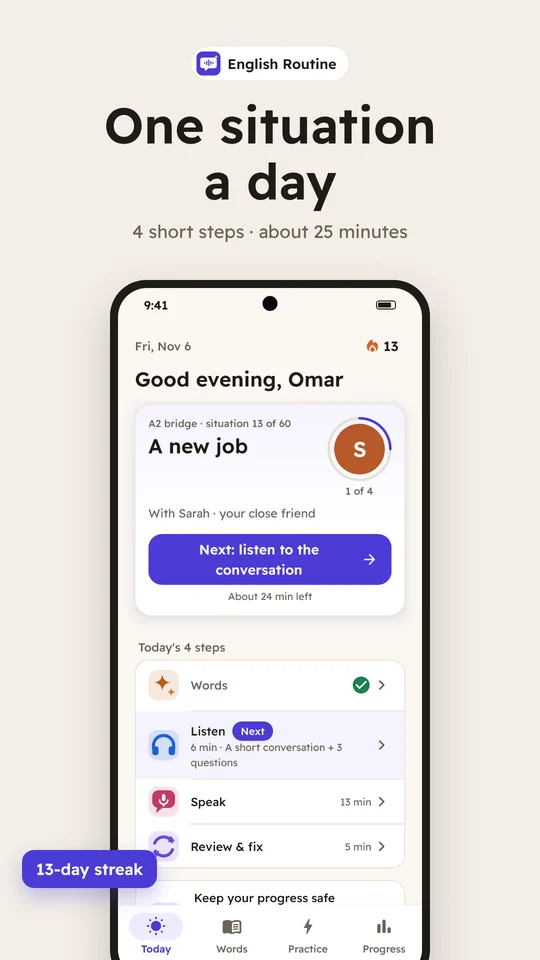
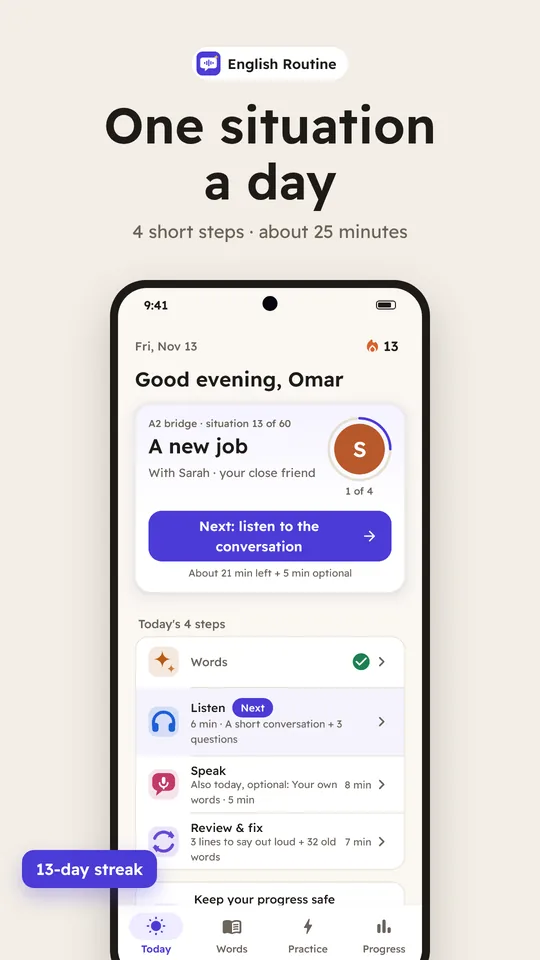
590 situations, 11 help languages, the two new Plus features; screenshots from 7.4.6
Claude-Session: https://claude.ai/code/session_01MRLAn8gfzqwUAjyTHvjyFp

diff --git a/index.html b/index.html
@@ -84,10 +84,10 @@ footer a{color:var(--muted)}
   <div class="fact"><b>25 دقيقة</b><span>في اليوم. موقف واحد، 4 خطوات، وخلاص</span></div>
 </section>
 
-<div class="note">الشرح بالعامية المصرية (أو هندي، إندونيسي، إسباني، برتغالي، تركي). الإنجليزي أمريكي في كل حاجة: practice، apartment، the check.</div>
+<div class="note">الشرح بالعامية المصرية، أو بواحدة من 10 لغات تانية (هندي، إسباني، برتغالي، فرنساوي، روسي، تركي، إندونيسي، كوري، ياباني، فيتنامي)، أو إنجليزي بس. الإنجليزي أمريكي في كل حاجة: practice، apartment، the check.</div>
 
 <section class="plus">
-  <div><b>English Routine Plus</b><p>أي موقف في أي يوم، موقف مخصوص لحاجة جاية (مقابلة، سفر، دكتور)، تقرير النطق، والتمرين وإنت في المواصلات. أول أسبوع ببلاش لكل مستخدم جديد — وخطة اليوم الأربع خطوات بتفضل ببلاش للأبد.</p></div>
+  <div><b>English Routine Plus</b><p>خلّصت موقف النهارده وعايز تكمّل؟ ابدأ اللي بعده في نفس اليوم. وبعد كل تمثيلية نفس الشخص بيسألك أسئلة زيادة بصوته. ومعاهم: أي موقف في أي يوم، موقف مخصوص لحاجة جاية (مقابلة، سفر، دكتور)، تقرير النطق، والتمرين وإنت في المواصلات. أول أسبوع ببلاش لكل مستخدم جديد — وخطة اليوم الأربع خطوات بتفضل ببلاش للأبد.</p></div>
   <a class="cta" style="background:#E6B13A;color:#2A2350" href="https://play.google.com/store/apps/details?id=com.englishroutine.app">جرّب أسبوع Plus</a>
 </section>
 

diff --git a/en.html b/en.html
@@ -84,10 +84,10 @@ footer a{color:var(--muted)}
   <div class="fact"><b>25 min</b><span>a day. One situation, 4 steps, done</span></div>
 </section>
 
-<div class="note">Help in Egyptian Arabic, Hindi, Indonesian, Spanish, Portuguese or Turkish — or English only. American English throughout: practice, apartment, the check.</div>
+<div class="note">Help in 11 languages: Egyptian Arabic, Hindi, Spanish, Portuguese, French, Russian, Turkish, Indonesian, Korean, Japanese and Vietnamese — or English only. American English throughout: practice, apartment, the check.</div>
 
 <section class="plus">
-  <div><b>English Routine Plus</b><p>Any situation on any day, a lesson written for something coming up (an interview, a trip, the doctor), your pronunciation report, and practice on the go. The first week is free for every new learner — and the daily 4 steps stay free for good.</p></div>
+  <div><b>English Routine Plus</b><p>Done for today and want more? Start the next situation the same day. After every role-play the same person asks you more questions, out loud. Plus any situation on any day, a lesson written for something coming up (an interview, a trip, the doctor), your pronunciation report, and practice on the go. The first week is free for every new learner — and the daily 4 steps stay free for good.</p></div>
   <a class="cta" style="background:#E6B13A;color:#2A2350" href="https://play.google.com/store/apps/details?id=com.englishroutine.app">Try a week of Plus</a>
 </section>
 
